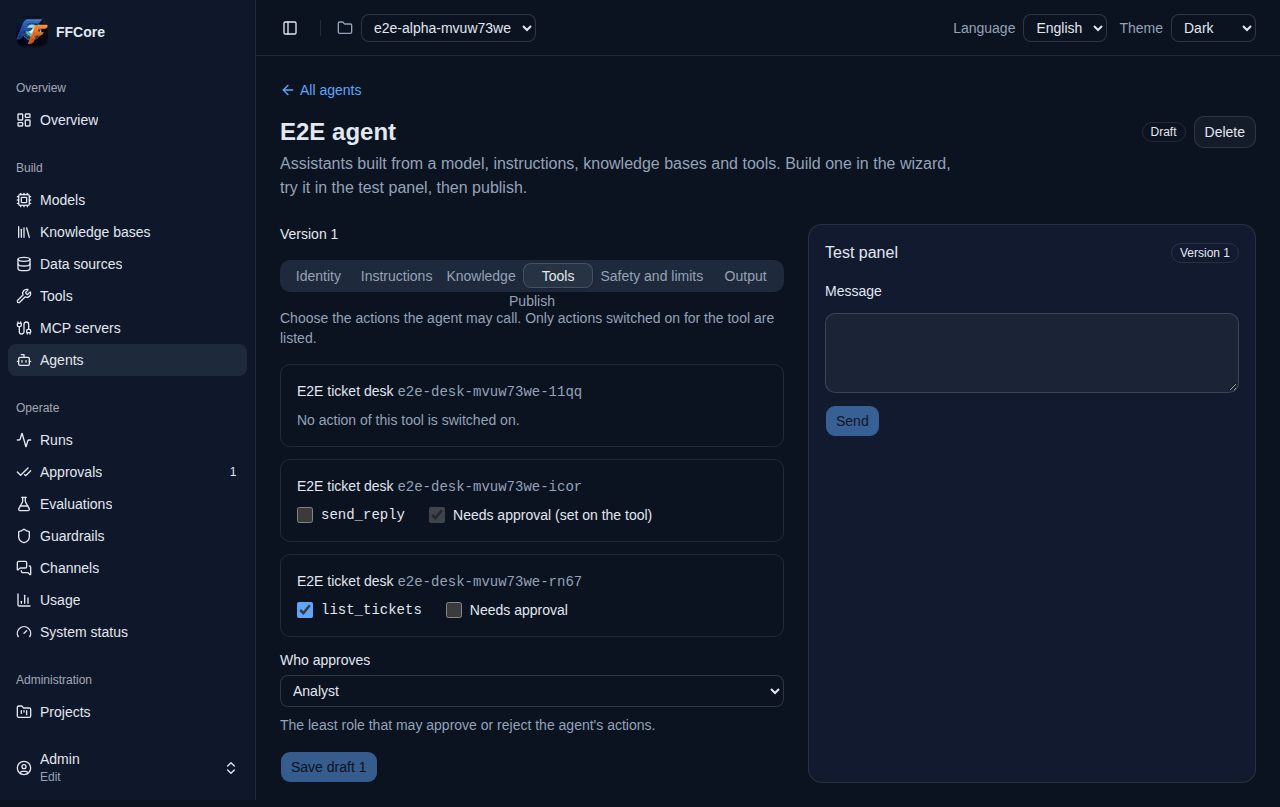
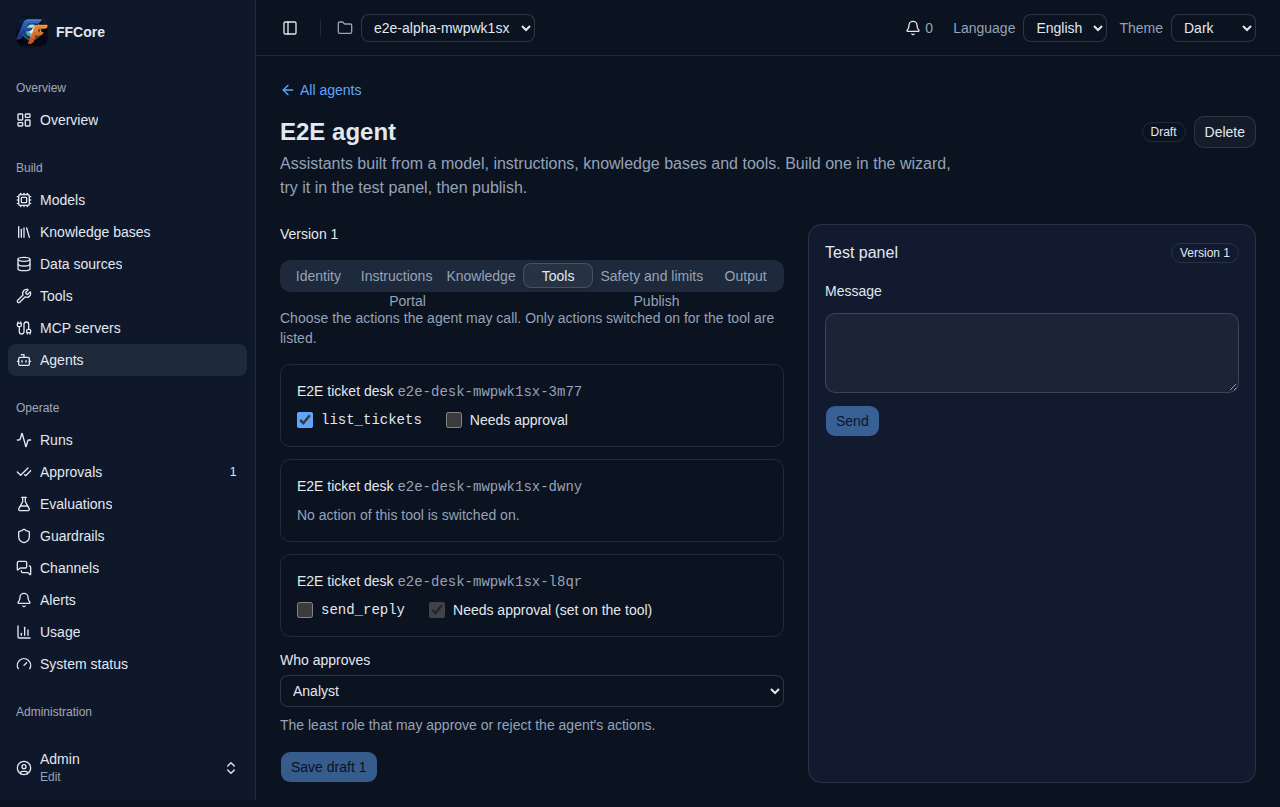
docs(11): chat approval, question, rating and portal settings
docs/chat.md, docs/agentlar.md (feedback source, chat portal settings),
docs/evaluation.md (expert_feedback vs user_feedback), changelog entry on top,
portal screenshots; the wizard screenshots show the new Portal tab.

diff --git a/docs/chat.md b/docs/chat.md
@@ -14,9 +14,10 @@ sources with their dates, as interface rather than as text.
 | analyst and above, `edit` access | yes | yes | yes | yes |
 | analyst and above, `read` access | yes | yes | yes | yes |
 
-Chatting and deleting one's own conversation are open in read-only access mode (the backend's
-read-only exception, brief 03 and brief 11). Approving actions and rating answers are platform
-mutations and need `edit` access (package 11-2). The chat lists the project's **published**
+Chatting, answering the agent's question and deleting one's own conversation are open in
+read-only access mode (the backend's read-only exception, brief 03 and brief 11). Approving
+actions and rating answers are platform mutations and need `edit` access: in read access their
+controls are disabled and say why. The chat lists the project's **published**
 agents only. Drafts, deleted agents and external agents (which are reached through the facade)
 are not listed. A chat URL for such an agent says the agent is not available.
 
@@ -50,6 +51,17 @@ automatically. Without a selection the chat asks for one.
     there is no confidence badge (brief 06, PayCore K3). The score is on the run's detail page
     in the console.
   - A run that ends without an answer (guardrail block, failure, cancel) says so with its code.
+  - **Approval:** an action that needs approval (07) stops the run and shows the action, its
+    arguments behind "Details", and who approves. A member with `edit` access whose role is at
+    least the approver role (`assign_to`, default analyst) approves or rejects here, with an
+    optional note (shown to the model on reject). Anyone else sees "Waiting for approval by
+    {role} or above": the approver decides in the console's approval queue. There is no
+    separate notification (brief 11 decision S4).
+  - **Question:** an agent with `ask_user` may ask one short question; the answer box sends it
+    (06a `resume`) and the answer continues below.
+  - **Rating:** helpful / not helpful under a stored answer, with an optional note, sent with
+    Send. It is your own rating (`source: chat`, Langfuse score `user_feedback`), kept apart from
+    an expert's review (`expert_feedback`, docs/agentlar.md). Rating again replaces your rating.
   - The conversation title is the first 60 characters of its first message. No model call is
     made for titles, tags or follow-up suggestions (brief 11, PayCore D6: on CPU every such call
     is a full model call).
@@ -60,19 +72,33 @@ automatically. Without a selection the chat asks for one.
 ## Connection and reload
 
 The answer comes over the run's event stream (06a `POST …/agents/{key}/runs`, `channel: chat`).
+A run waiting for an approval or an answer ends its stream; the chat then reads the run every three
+seconds and, when it has moved on (someone else approved), follows the stream again from the
+last event it saw. Your own decision or answer continues the stream at once. A failing read says
+so with its code and is tried again.
 A stream that drops or stays silent for three missed keepalives reconnects with `Last-Event-ID`
 (the 10b watchdog in `lib/sse.ts`). While it reconnects, and after it gives up, the chat reads
 the run with GET and shows the status on the server. Closing the page never cancels a run. If you
 reload while a run is still going, the chat follows that run again from its first event. When
 the run ends, the stored messages replace the live view.
 
+## Portal settings
+
+An agent's portal settings (console: agent → Portal tab, analyst and above with `edit` access) give
+the chat a welcome text, up to three example questions and an accent colour (docs/agentlar.md,
+"Chat portal settings"). The welcome text replaces the description above an empty conversation.
+An example question is put in the message box when clicked; it is not sent until you send it.
+The accent colours your messages and the send button; its tone is derived per theme so the text
+stays readable, and the Portal tab previews both themes.
+
 ## API (06a contract additions)
 
 | Call | Who | Notes |
 |---|---|---|
-| `GET /api/v1/projects/{p}/chat/agents` | any member | published native agents: `id`, `key`, `name`, `description` only (no definition, prompt, model or tools) |
+| `GET /api/v1/projects/{p}/chat/agents` | any member | published native agents: `id`, `key`, `name`, `description`, `portal_config` only (no definition, prompt, model or tools) |
 | `GET /api/v1/projects/{p}/conversations?agent_id=&limit=` | any member | own conversations, newest message first (`limit` 1..200, default 50) |
-| `GET /api/v1/projects/{p}/conversations/{c}/messages` | owner | messages in order, each with its run's `run_status`, `outcome_label`, `error_code`; assistant messages with `sources` (no text), `feedback`, `low_confidence` (null unless the agent shows confidence) |
+| `GET /api/v1/projects/{p}/conversations/{c}/messages` | owner | messages in order, each with its run's `run_status`, `outcome_label`, `error_code`; assistant messages with `sources` (no text), `feedback` (an expert's review), `user_feedback` (your rating), `low_confidence` (null unless the agent shows confidence) |
+| `POST /api/v1/projects/{p}/runs/{r}/feedback` `{vote, note?, source: "chat"}` | the run's own user, `edit` access | your rating; `vote` is `correct` (helpful) or `wrong` (not helpful) from the chat |
 | `DELETE /api/v1/projects/{p}/conversations/{c}` | owner, read access too | soft delete, audit `delete_conversation` (id only; the title is not in the audit payload) |
 | `GET /api/v1/projects/{p}/runs/{r}/sources/{chunk_id}` | whoever may read the run | the cited chunk's text, page, breadcrumb, document and update date; refusals above |
 
@@ -80,9 +106,10 @@ Anyone else's conversation is 404 (`conversation_not_found`); its existence is n
 
 ## Shared components
 
-The tool and source cards live in `frontend/components/chat/` and are also used by the agent test
-panel in the console (`variant="panel"`, unchanged from 10b: arguments always visible, no
-passage reading).
+The tool and source cards, the approval prompt and the question box live in
+`frontend/components/chat/` and are also used by the agent test panel in the console
+(`variant="panel"`, unchanged from 10b: arguments always visible, no passage reading, approval
+buttons behind the write gate as before).
 
 ## Screenshots
 
@@ -92,3 +119,5 @@ passage reading).
 | Assistants | ![](images/11-agents-light-desktop.png) | ![](images/11-agents-dark-desktop.png) |
 | Chat | ![](images/11-chat-light-desktop.png) | ![](images/11-chat-dark-desktop.png) |
 | Chat on a phone | ![](images/11-chat-light-mobile.png) | ![](images/11-chat-dark-mobile.png) |
+| Chat with portal settings | ![](images/11-portal-chat-light.png) | ![](images/11-portal-chat-dark.png) |
+| Console Portal tab | ![](images/11-portal-tab-light.png) | ![](images/11-portal-tab-dark.png) |

diff --git a/docs/agentlar.md b/docs/agentlar.md
@@ -58,6 +58,23 @@ Saving or publishing checks the budget against the model (C13): `context_tokens`
 Analysts with edit access build and publish agents; read-only access gets 403 on every mutation.
 Every mutation is audited.
 
+### Chat portal settings (11-2)
+
+`PATCH /agents/{id} {portal_config}` sets what the end user chat (docs/chat.md) shows for the agent:
+
+| Field | Rule |
+|---|---|
+| `welcome` | text above an empty conversation instead of the description; up to 500 characters, not blank; null: none |
+| `examples` | up to 3 example questions, each up to 200 characters and not blank; a click fills the message box, the user sends |
+| `accent` | `#rrggbb` or null (the product colour) |
+
+Other keys are refused (422). The settings belong to the agent, not to a version: they are
+changed while the agent is published and take effect at once, without a publish or an exam.
+`null` clears them. They are returned by `GET /agents/{id}` and `GET /chat/agents`. The server
+checks only the hex form of `accent`; the console derives a tone per theme from it so that the
+text on it stays readable (contrast 4.5:1 to the text, 3:1 to the page) and shows both in the
+Portal tab's preview, saying when the tone differs from the picked colour.
+
 ### Manifest (06b)
 
 - `GET /agents/{id}/manifest?version=&format=json|yaml`: the agent (`key`, `name`, `description`,
@@ -160,8 +177,13 @@ reconnect to the live stream (Redis, within `RUN_EVENT_STREAM_TTL_S`) and a repl
   `GET /runs/{id}`, `GET /runs/{id}/events`, `GET /runs/{id}/stream`. Analysts and above read
   every run of the project; a `user` member reads the runs that ran for them (`user_id`) and
   lists only those; another user's run is 404.
-- **Feedback (F9):** `POST /runs/{id}/feedback {vote: correct|partial|wrong, note?}` on a completed
-  run, with edit access: stored on the answer and sent to Langfuse as the score `expert_feedback`.
+- **Feedback (F9):** `POST /runs/{id}/feedback {vote: correct|partial|wrong, note?, source?}` on a
+  completed run, with edit access. `source: review` (the default) is the expert's review: stored
+  on the answer (`feedback`) and sent to Langfuse as the score `expert_feedback`; `feedback=pending`
+  lists the completed runs without one. `source: chat` (11-2) is the run's own user rating their
+  answer in the chat (anyone else: 403 `not_run_user`): stored apart (`user_feedback`), score
+  `user_feedback`. A chat vote leaves the run in the review queue, and the expert's later review
+  does not overwrite it.
 
 Superadmins run agents only in projects where they are members: the run searches and calls tools
 on behalf of its user, where only membership counts (403 `run_needs_membership`).

diff --git a/docs/degisiklikler.md b/docs/degisiklikler.md
@@ -4,6 +4,24 @@ Behaviour and configuration changes that a deployment or an API client notices, 
 (handbook/RELEASE_AND_ROLLBACK.md, CHANGE_CONTROL.md). Each entry names the package and what to do,
 if anything.
 
+## 2026-11-21 · 11-2 · Chat approval, question, rating and portal settings
+
+- **What:** the chat (docs/chat.md) approves or rejects an action inline for a member with `edit`
+  access and role >= the approver role, and says who approves to anyone else; it answers an
+  agent's `ask_user` question; it rates an answer (helpful / not helpful, optional note). The
+  console's agent screen gets a Portal tab: welcome text, up to three example questions and an
+  accent colour, shown by the chat (docs/agentlar.md, "Chat portal settings").
+- **API (additive):** `POST …/runs/{id}/feedback` takes `source` (`review`, the default and the
+  old behaviour, or `chat`: the run's own user only, stored in `messages.user_feedback`, Langfuse
+  score `user_feedback`). `PATCH …/agents/{id}` takes `portal_config`; `AgentOut`,
+  `GET …/chat/agents` and the conversation messages (`user_feedback`) return the new fields.
+- **Migration:** `11_0001` adds two nullable `jsonb` columns, `messages.user_feedback` and
+  `agents.portal_config` (no data change; `alembic downgrade 12_0002` removes them).
+- **Changed:** the console test panel's approval and answer texts moved to the shared
+  `RunCards` messages; the panel looks and behaves as before.
+- **Action:** none beyond the usual upgrade: the `migrate` service applies `11_0001` at `make up`. Regenerated
+  `frontend/lib/api/schema-06a.d.ts` and `schema-06b.d.ts` for API clients that use them.
+
 ## 2026-11-20 · 11-1 · End user chat (`/chat`)
 
 - **What:** the console serves `/chat` (docs/chat.md): the selected project's published agents,

diff --git a/docs/evaluation.md b/docs/evaluation.md
@@ -9,6 +9,10 @@ tells you per question *where* it failed: retrieval, reranking, the model, or no
 |---|---|
 | Questions (dataset items), exam runs, per-question scores | Langfuse (datasets, dataset runs, scores) |
 | Suite (which dataset, scorers, threshold, gated agent), exam run summary | FFCore (`eval_suites`, `eval_runs`) |
+
+Votes on ordinary runs are other Langfuse scores and never count in an exam: `expert_feedback` is an
+expert's review (F9, the runs screen), `user_feedback` the chat user's own vote on their answer
+(11-2, docs/chat.md). Filter on the score name to keep the two apart.
 | The answering itself | ordinary agent runs, `channel=test`, background class (`llm-background`) |
 
 FFCore keeps no copy of the questions: edit them in Langfuse (its own CSV/JSON import) or seed
